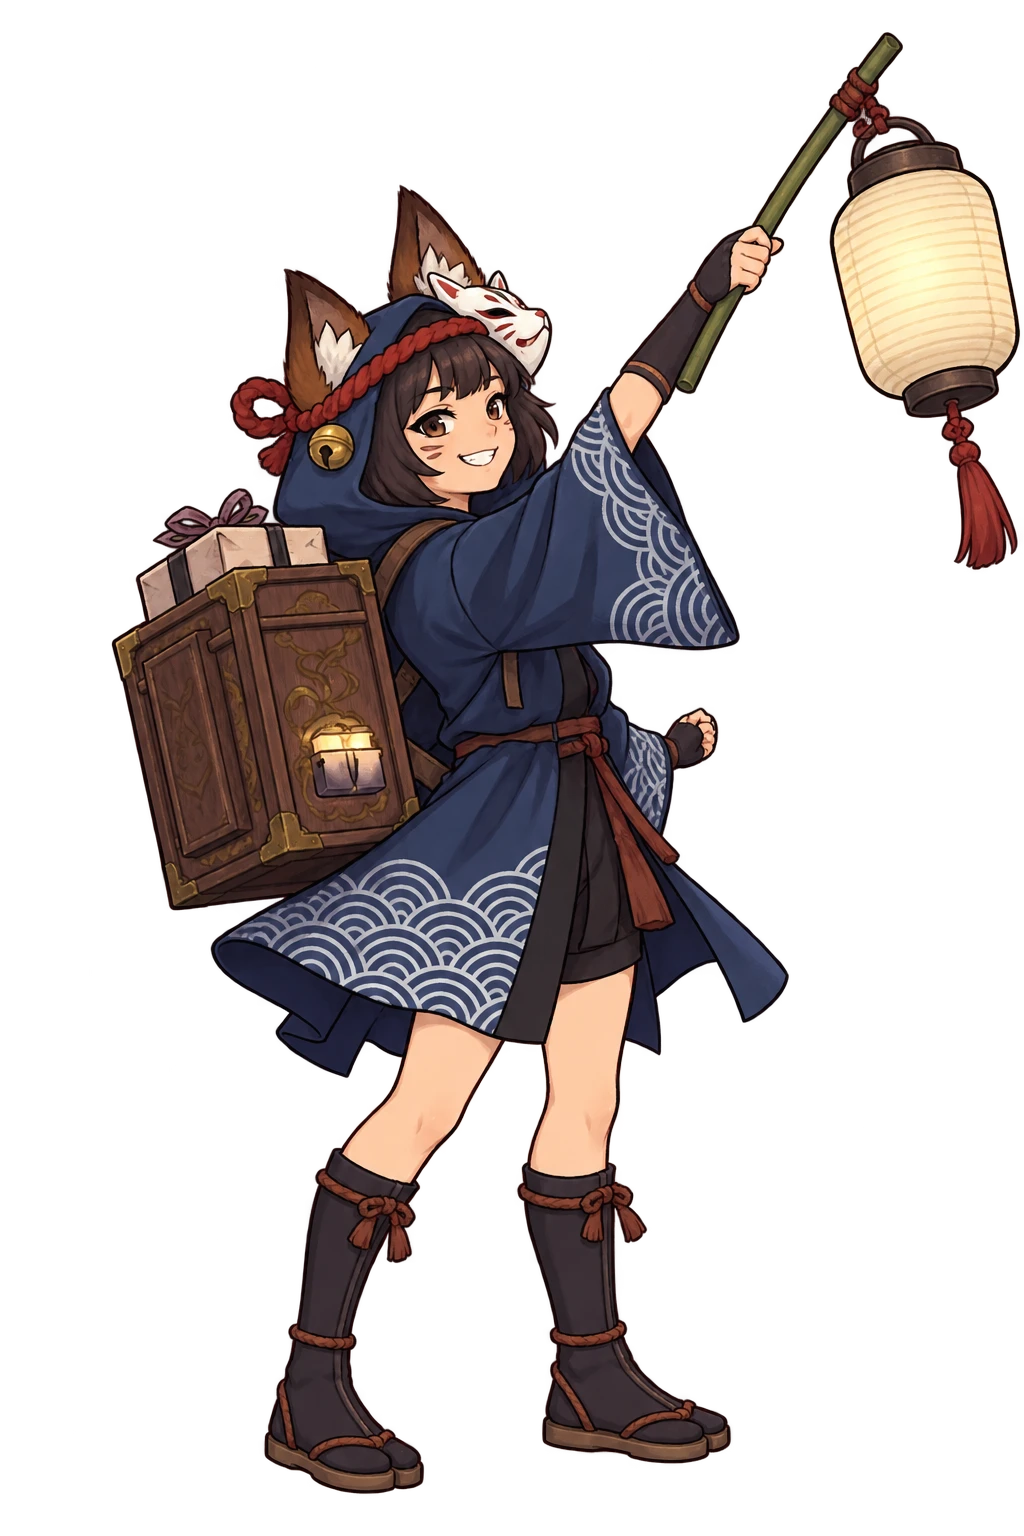
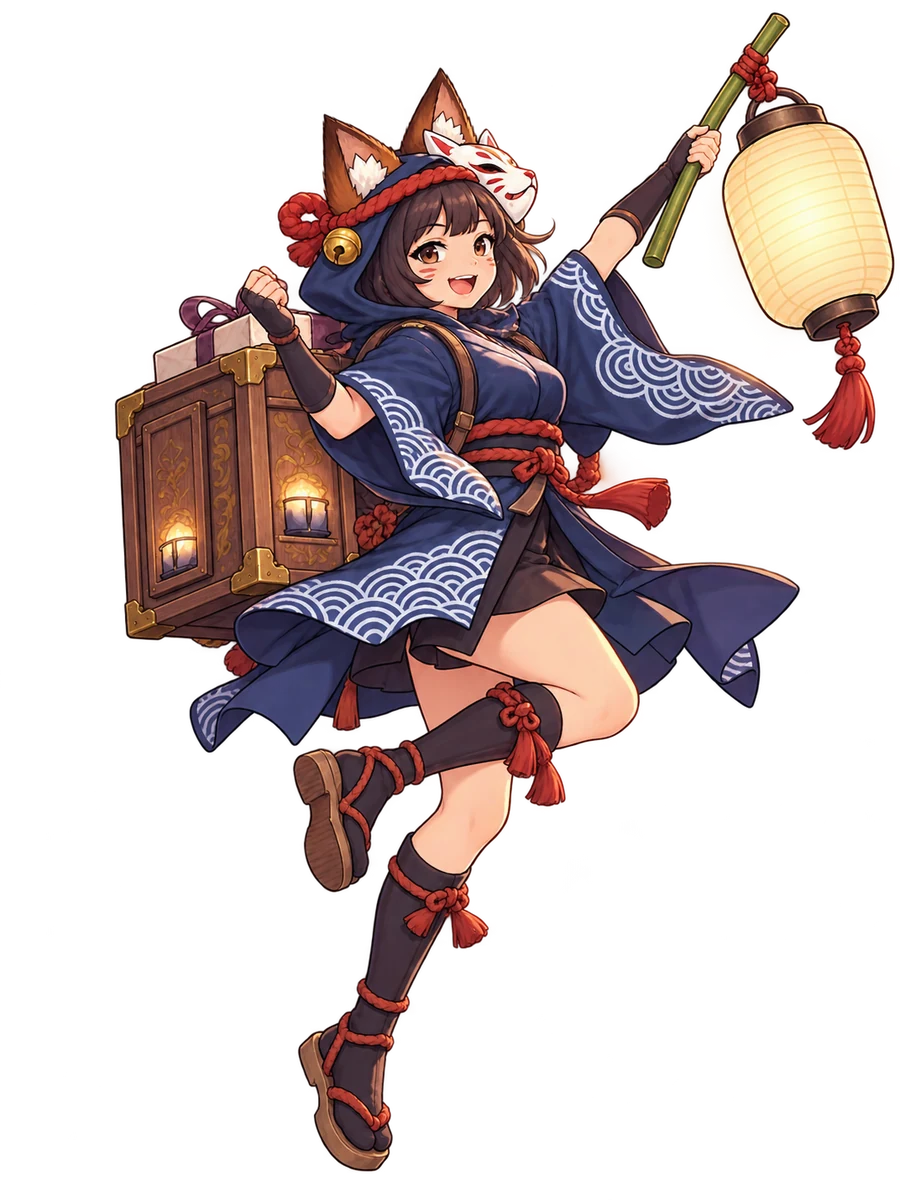
feat: integrate approved matching courier art into menu and results

diff --git a/js/ui.js b/js/ui.js
@@ -312,7 +312,7 @@ window.UI = (() => {
     const px=scale<1?Math.max(size,Math.min(28,Math.ceil(14/scale))):size;
     return `${weight} ${px}px 'Noto Serif TC', 'Songti TC', 'PMingLiU', serif`;
   }
-  function drawButton(ctx,b,label,{tone="normal",size=18,focus=false,icon=null,disabled=false,quiet=false,scrollText=false}={}) {
+  function drawButton(ctx,b,label,{tone="normal",size=18,focus=false,icon=null,disabled=false,quiet=false,scrollText=false,visualOffsetY=0}={}) {
     const t=BUTTON_TONES[tone]||BUTTON_TONES.normal;
     const hovered=!disabled && buttonFeedback.hoverId===b.id;
     const pressed=!disabled && isButtonPressed(b.id);
@@ -343,7 +343,7 @@ window.UI = (() => {
     const fontSize=fontPx(ctx.font);
     const asc=Number.isFinite(metrics.actualBoundingBoxAscent)?metrics.actualBoundingBoxAscent:fontSize*.76;
     const desc=Number.isFinite(metrics.actualBoundingBoxDescent)?metrics.actualBoundingBoxDescent:fontSize*.12;
-    const y=safe.y+(asc-desc)/2;
+    const y=safe.y+(asc-desc)/2+visualOffsetY;
     const painted=!!illustratedArt[tone==="primary"?"primary":tone==="danger"?"danger":"neutral"]?.naturalWidth;
     const darkLettering=painted && tone!=="primary" && tone!=="danger";
     ctx.fillStyle=darkLettering?"rgba(255,240,214,.35)":"rgba(18,13,12,.52)";
@@ -2668,9 +2668,9 @@ window.UI = (() => {
     // 木框旅帳標題保留清晰描墨，不增加漂浮光環。
     ctx.font = titleFont(32);
     ctx.fillStyle = "rgba(0, 0, 0, 0.55)";
-    ctx.fillText(isWon ? "夜已破曉" : "燈油已盡", mid, cardY + 63);
+    ctx.fillText(isWon ? "夜已破曉" : "燈油已盡", mid, cardY + 54);
     ctx.fillStyle = "#f6e9ce";
-    ctx.fillText(isWon ? "夜已破曉" : "燈油已盡", mid, cardY + 60);
+    ctx.fillText(isWon ? "夜已破曉" : "燈油已盡", mid, cardY + 51);
 
     // 線條與裝飾已融入紙張貼圖，不再以數位等距分隔線覆蓋。
 
@@ -2733,9 +2733,9 @@ window.UI = (() => {
       parts.forEach((text,i)=>fitText(ctx,text,cardX+100+colW*(i%cols+0.5),lineY+Math.floor(i/cols)*lineStep,colW-12));
     }
 
-    drawButton(ctx, END_BTNS[0], "再踏夜行", { tone: "primary", size: 18, focus: focus===0,scrollText:true });
-    drawButton(ctx, END_BTNS[1], "回旅路地圖", { size: 18, focus: focus===1,quiet:true,scrollText:true });
-    drawButton(ctx, END_BTNS[2], "回到首頁", { size: 18, focus: focus===2,quiet:true,scrollText:true });
+    drawButton(ctx, END_BTNS[0], "再踏夜行", { tone: "primary", size: 18, focus: focus===0,scrollText:true,visualOffsetY:-5 });
+    drawButton(ctx, END_BTNS[1], "回旅路地圖", { size: 18, focus: focus===1,quiet:true,scrollText:true,visualOffsetY:-5 });
+    drawButton(ctx, END_BTNS[2], "回到首頁", { size: 18, focus: focus===2,quiet:true,scrollText:true,visualOffsetY:-5 });
 
     // 最後繪製特寫，提燈與角色輪廓可跨過資訊卡邊框。
     const courierKey = isWon ? "player_win_v1" : "player_kneel_v1";
@@ -2745,11 +2745,19 @@ window.UI = (() => {
       const ph = bounds.height * 2 / 3;
       // drawFrame 的 x 是腳底水平錨點；依各結算素材的透明邊界預留左側安全距離。
       // 寬螢幕仍沿用原本 108，平板/4:3 會自動右移，避免失敗立繪被畫布左緣裁切。
-      const leftAnchorRatio = isWon ? (512 - 111) / 1462 : (612 - 159) / 1161;
-      const portraitX = Math.max(108, bounds.left + 12 + ph * leftAnchorRatio);
       ctx.save();
-      if (window.RENDERER?.drawFrame) window.RENDERER.drawFrame(ctx,courier,window.ART[courierKey]?courierKey:'player',0,portraitX,470,ph);
-      else ctx.drawImage(courier,portraitX-ph*courier.naturalWidth/courier.naturalHeight/2,470-ph,ph*courier.naturalWidth/courier.naturalHeight,ph);
+      // 新版勝利／失敗立繪是完整去背單圖，不能使用舊版的固定裁切座標。
+      const newPortrait = !!window.ART?.[courierKey] && courier.naturalWidth === 900 && courier.naturalHeight === 1200;
+      if (newPortrait) {
+        const pw = ph * courier.naturalWidth / courier.naturalHeight;
+        const left = Math.max(bounds.left + 10, cardX - pw * .65);
+        ctx.drawImage(courier, left, 470 - ph, pw, ph);
+      } else {
+        const leftAnchorRatio = isWon ? (512 - 111) / 1462 : (612 - 159) / 1161;
+        const portraitX = Math.max(108, bounds.left + 12 + ph * leftAnchorRatio);
+        if (window.RENDERER?.drawFrame) window.RENDERER.drawFrame(ctx,courier,window.ART[courierKey]?courierKey:'player',0,portraitX,470,ph);
+        else ctx.drawImage(courier,portraitX-ph*courier.naturalWidth/courier.naturalHeight/2,470-ph,ph*courier.naturalWidth/courier.naturalHeight,ph);
+      }
       ctx.restore();
     }
 
@@ -2788,12 +2796,19 @@ window.UI = (() => {
     // 大尺寸版仿照核准稿：角色與狐狸面具／燈籠留在左側，
     // 右側只放一塊告示紙和七張克制的紙札；狹長螢幕保留原適配排列。
     const panelMid=(panelX+panelR)/2;
-    if(!compact){
-      const courier=window.ART?.player_kneel_v1;
-      if(courier?.naturalWidth && courier?.naturalHeight){
-        const h=410,w=h*courier.naturalWidth/courier.naturalHeight;
+    window.loadPauseRestArt?.();
+    const courier=window.ART?.player_rest_v1;
+    if(courier?.naturalWidth && courier?.naturalHeight){
+      // 手機橫向左側有剩餘留白時保留休息角色；小到放不下則省略，
+      // 但永遠不縮小暫停面板的觸控 hitbox。
+      const margin=panelX-screenBounds().left-8;
+      const h=compact?Math.min(235,margin*courier.naturalHeight/courier.naturalWidth):455;
+      if(h>=125){
+        const w=h*courier.naturalWidth/courier.naturalHeight;
+        const x=compact?panelX-w-5:Math.max(0,panelX-w+18);
+        const y=compact?panelB-h-9:110;
         ctx.save();ctx.globalAlpha=.96;
-        ctx.drawImage(courier,Math.max(0,355-w),132,w,h);
+        ctx.drawImage(courier,x,y,w,h);
         ctx.restore();
       }
     }
@@ -2802,13 +2817,13 @@ window.UI = (() => {
     ctx.textAlign = "center";
     ctx.font = scrollFont(36,"700");
     ctx.fillStyle = "rgba(0, 0, 0, 0.20)";
-    ctx.fillText("暫停", panelMid, 134);
+    ctx.fillText("暫停", panelMid, 146);
     ctx.fillStyle = "#3d2a20";
-    ctx.fillText("暫停", panelMid, 132);
+    ctx.fillText("暫停", panelMid, 144);
 
     ctx.font = scrollFont(13,"700");
     ctx.fillStyle = "#573d2d";
-    ctx.fillText("這一夜先停在這裡", panelMid, 158);
+    ctx.fillText("這一夜先停在這裡", panelMid, 163);
 
     buttons.forEach((b, i) => {
       const label = b.id === "mute" && muted ? b.labelMuted : b.label;

diff --git a/index.html b/index.html
@@ -4,7 +4,7 @@
   <meta charset="utf-8">
   <meta name="viewport" content="width=device-width, initial-scale=1, viewport-fit=cover">
   <title>妖怪快遞社：夜行配達 — Yokai Delivery Service</title>
-  <link rel="preload" as="image" href="assets/img/cover.webp" fetchpriority="high">
+  <link rel="preload" as="image" href="assets/img/cover.webp?v=20261010-character-set1" fetchpriority="high">
   <!-- Google Web Fonts: 和風書法字體與圓體 -->
   <link rel="preconnect" href="https://fonts.googleapis.com">
   <link rel="preconnect" href="https://fonts.gstatic.com" crossorigin>
@@ -108,13 +108,13 @@
   <script src="js/config.js?v=20261005-space-rabbit"></script>
   <script src="js/viewport.js?v=20261005-space-rabbit"></script>
   <script src="js/controls.js?v=20261005-10"></script>
-  <script src="js/assets.js?v=20261009-art3"></script>
+  <script src="js/assets.js?v=20261010-rest1"></script>
   <script src="js/audio.js?v=20261005-23"></script>
   <script src="js/haptics.js?v=20261006-1"></script>
   <script src="js/renderer.js?v=20261009-washi4"></script>
   <script src="js/fx.js?v=20261005-25"></script>
   <script src="js/skillfx.js?v=20261010-fox-v3"></script>
-  <script src="js/ui.js?v=20261010-approved-ui3"></script>
+  <script src="js/ui.js?v=20261010-rest-align1"></script>
   <script src="js/overworld.js?v=20261006-1"></script>
   <script src="js/evolutions.js?v=20261010-fox-v3"></script>
   <script src="js/game.js?v=20261010-fox-v3"></script>

diff --git a/js/assets.js b/js/assets.js
@@ -49,8 +49,23 @@ function loadArt(n) {
     ? `assets/img/scenery/${n}.webp?v=20261008-scene2`
     : YOKAI_ASSET_KEYS.has(n)
     ? `assets/img/yokai/${n}.webp?v=20261009-ink1`
-    : `assets/img/${n}.webp`;
+    : `assets/img/${n}.webp${["cover","player_win_v1","player_kneel_v1"].includes(n)?"?v=20261010-character-set1":""}`;
 }
+
+// 休息立繪只會在打開暫停選單時下載，不佔遊戲首屏載入預算。
+let pauseRestRequested = false;
+window.loadPauseRestArt = function loadPauseRestArt() {
+  if (pauseRestRequested || window.ART?.player_rest_v1) return;
+  pauseRestRequested = true;
+  const img = new Image();
+  img.fetchPriority = "low";
+  img.decoding = "async";
+  img.onload = () => { window.ART.player_rest_v1 = img; };
+  img.onerror = () => {
+    console.warn("[Assets] 休息角色未載入，暫停畫面仍可正常使用。");
+  };
+  img.src = "assets/img/player_rest_v1.webp?v=20261010-character-set1";
+};
 
 function loadHudLanternArt() {
   const img = new Image();
